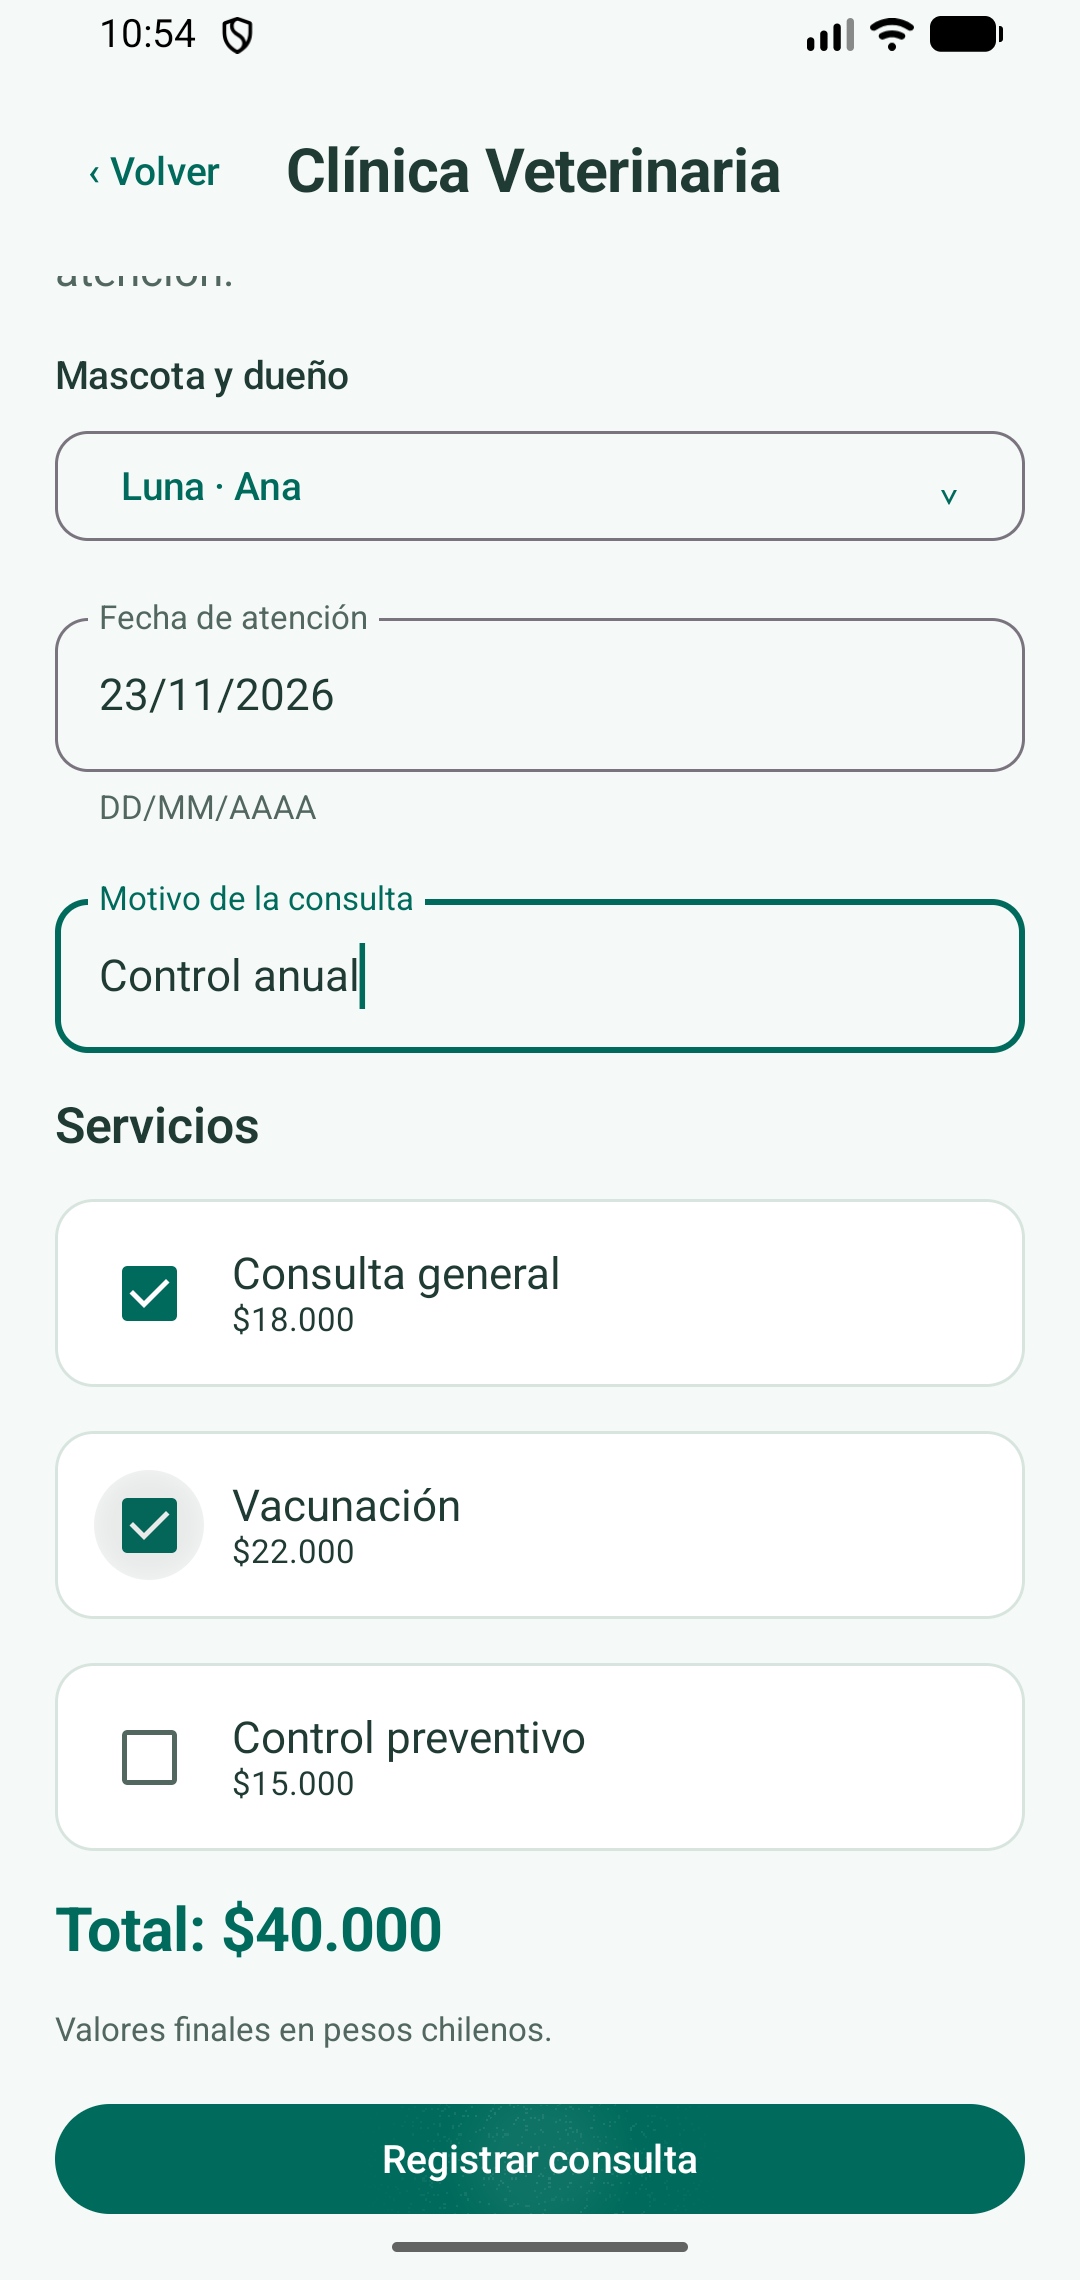
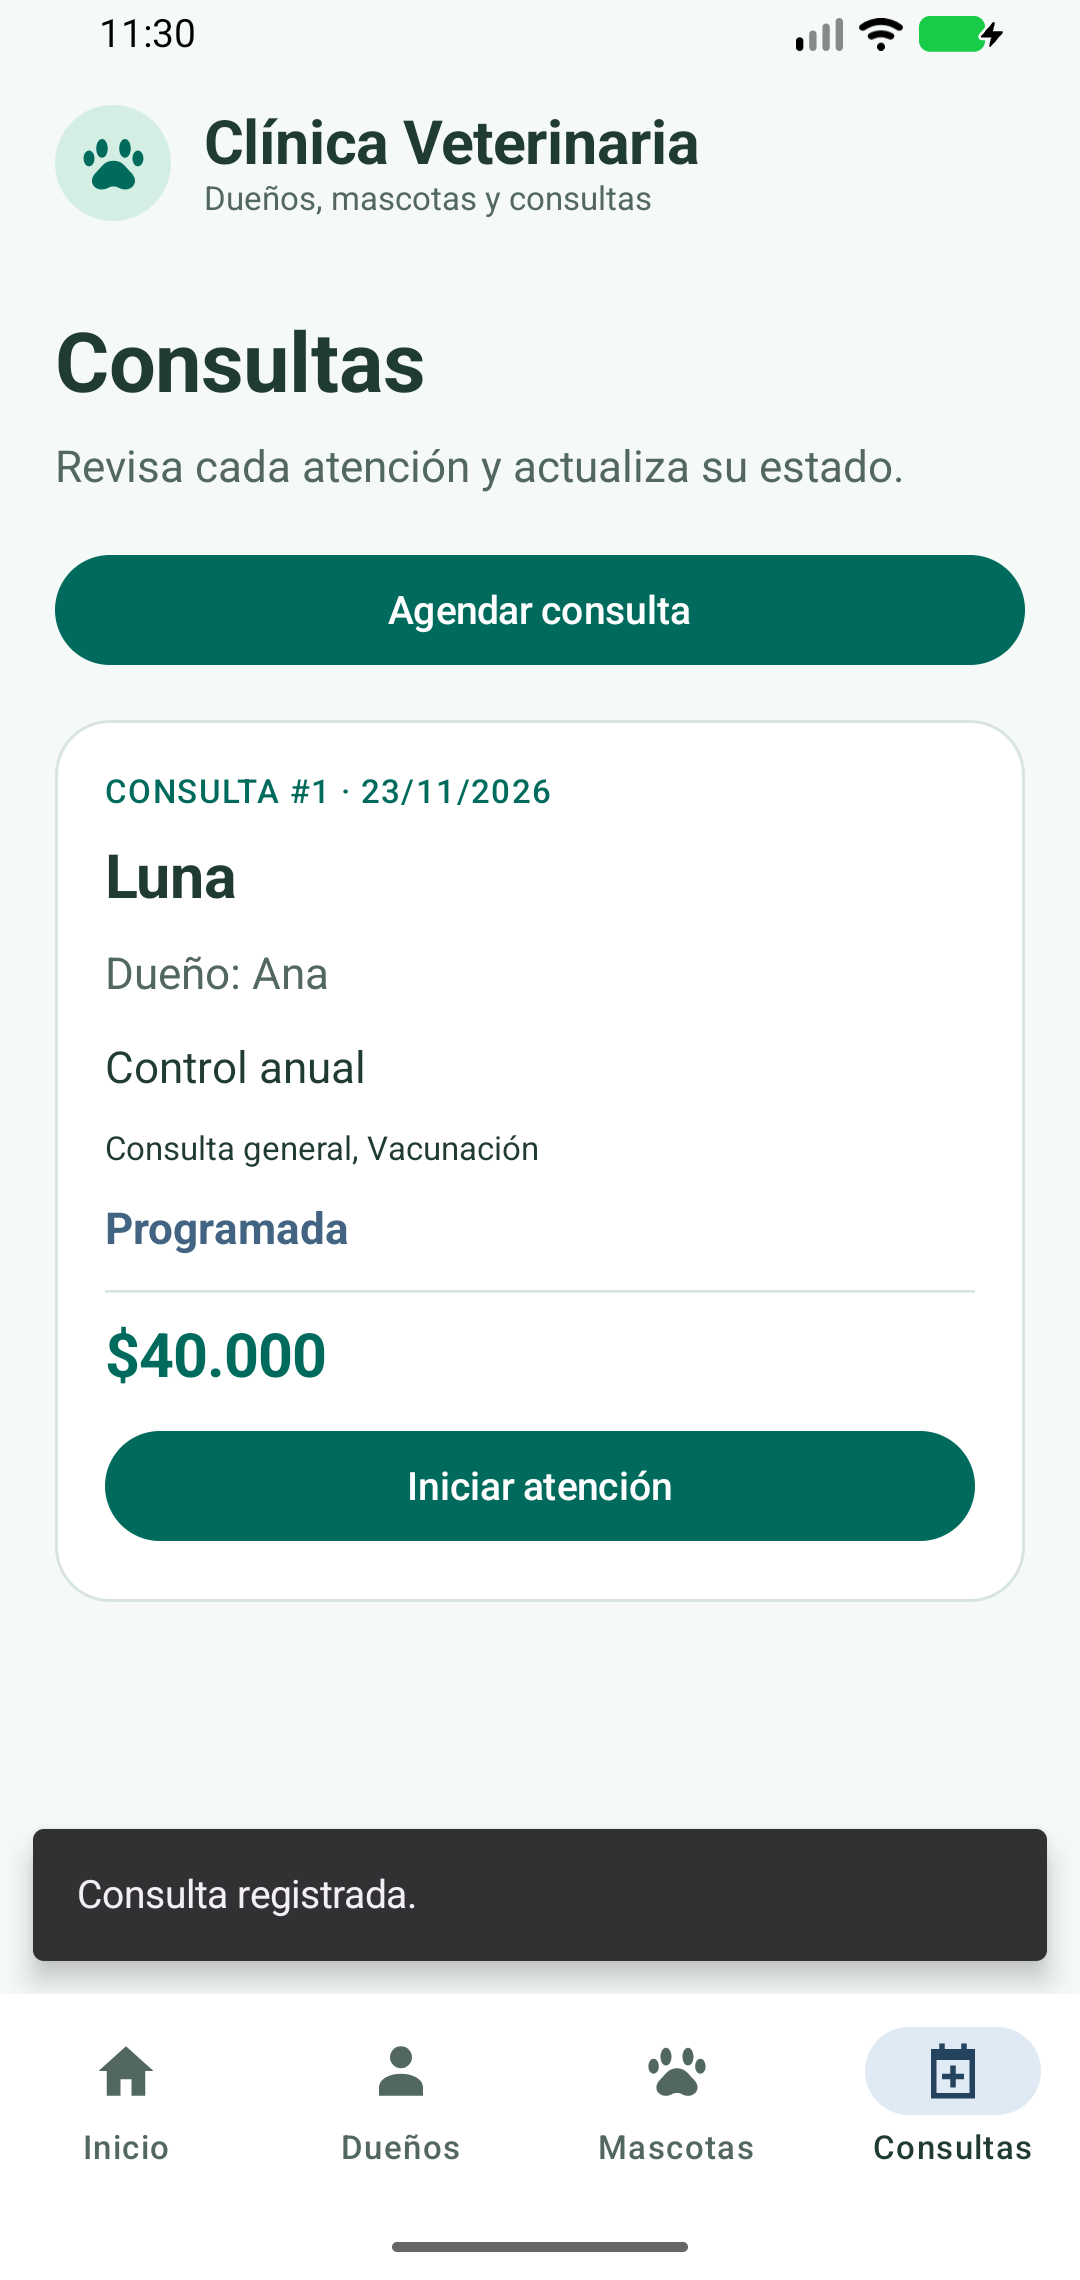
Corregir captura de consulta registrada y sincronizar fotograma

diff --git a/VeterinariaApp/app/src/androidTest/java/cl/duoc/veterinaria/ClinicaFlujoTest.kt b/VeterinariaApp/app/src/androidTest/java/cl/duoc/veterinaria/ClinicaFlujoTest.kt
@@ -149,6 +149,8 @@ class ClinicaFlujoTest {
     }
     private fun capturar(nombre: String) {
         app.waitForIdle()
+        // Espera también a que SurfaceFlinger presente el último fotograma de Compose.
+        android.os.SystemClock.sleep(500)
         val inst = InstrumentationRegistry.getInstrumentation()
         val carpeta = File(inst.targetContext.getExternalFilesDir(null), "evidencias").apply { mkdirs() }
         val archivo = File(carpeta, nombre)
